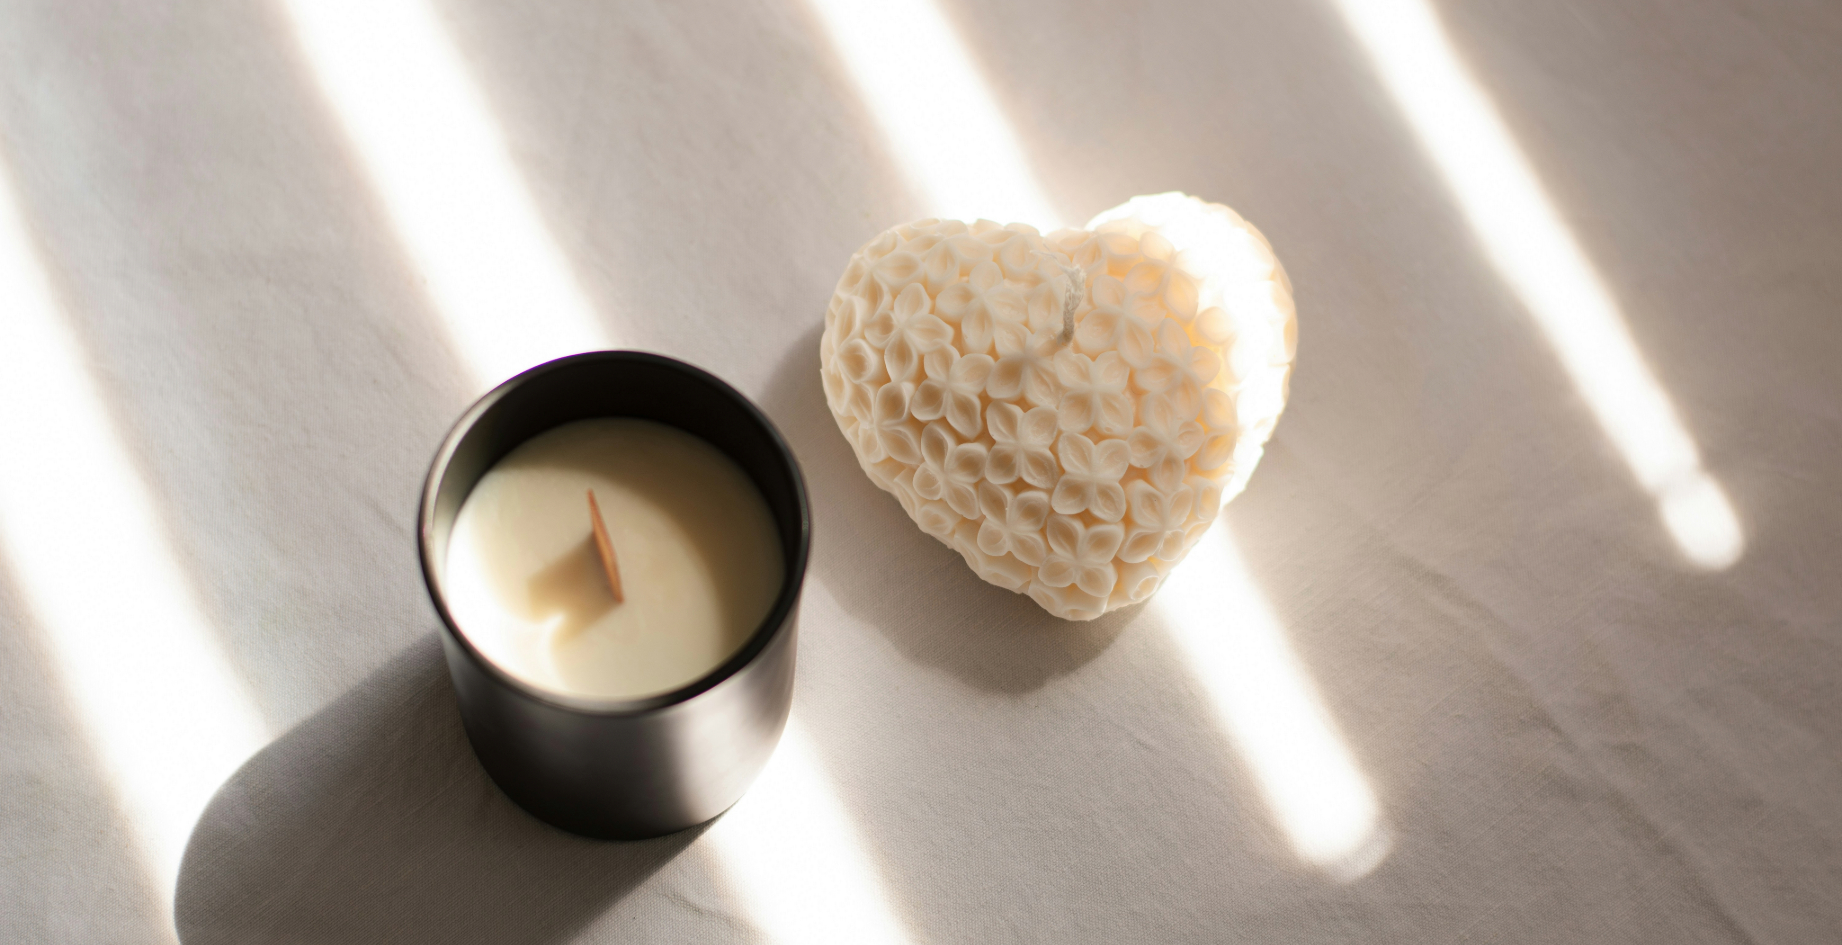
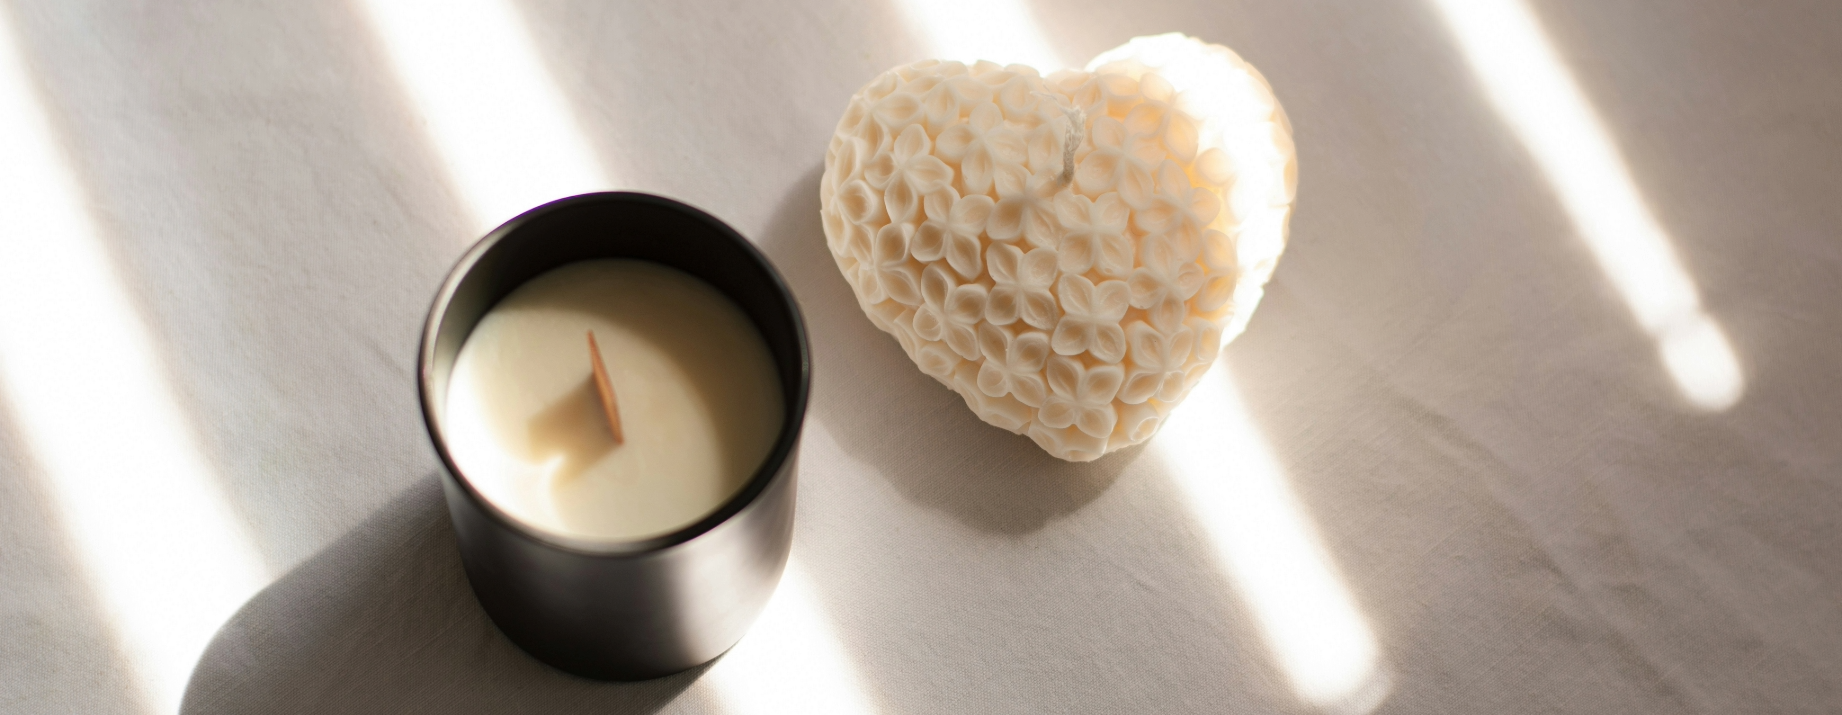
fix: 修改大圖樣式

diff --git a/index.html b/index.html
@@ -319,27 +319,29 @@
       </div>
       <div class="carousel-inner">
         <div class="carousel-item active">
-          <img class="w-100" src="./img/banner01.jpg" class="d-block w-100" alt="..." style="max-height: 80vh;">
+          <img class="w-100" src="./img/banner01.jpg" class="d-block w-100" alt="用香氣定義你的日常片刻" style="max-height: 70vh;">
           <div class="text-start carousel-caption d-none d-md-block">
-            <h2 class="display-3 fw-bold text-white">Slow down, breathe, illuminate.</h2>
-            <p>用香氣定義你的日常片刻</p>
-            <button type="button" class="btn btn-outline-light btn-lg">選購人氣款式</button>
+            <h2 class="display-1 fw-medium text-white">Slow down, breathe, illuminate.</h2>
+            <p class="text-white">為日常留一盞只屬於你的光</p>
+            <button type="button" class="btn btn-outline-light bg-btn-hover btn-lg">選購人氣香氛</button>
           </div>
         </div>
         <div class="carousel-item">
-          <img class="w-100" src="./img/banner02.jpg" class="d-block w-100" alt="..." style="max-height: 80vh;">
+          <img class="w-100" src="./img/banner02.jpg" class="d-block w-100" alt="..." style="max-height: 70vh;">
           <div class="text-center carousel-caption d-none d-md-block">
-            <h2 class="display-1 fw-bold text-white">Second slide label</h2>
-            <p>Some representative placeholder content for the second slide.</p>
-            <button type="button" class="btn btn-outline-light btn-lg">Large button</button>
+            <h2 class="display-1 fw-medium text-white">A scent for every quiet moment.</h2>
+            <p>早晨的陽光、午後的獨處、夜晚的放鬆 ☽☁
+              讓香氣，陪你走過每一段節奏。</p>
+            <button type="button" class="btn btn-outline-light bg-btn-hover btn-lg">探索香氣系列</button>
           </div>
         </div>
         <div class="carousel-item">
-          <img class="w-100" src="./img/banner03.jpg" class="d-block w-100" alt="..." style="max-height: 80vh;">
+          <img class="w-100" src="./img/banner03.jpg" class="d-block w-100" alt="..." style="max-height: 70vh;">
           <div class="text-end carousel-caption d-none d-md-block">
-            <h2 class="display-1 fw-bold text-white">Third slide label</h2>
-            <p>Some representative placeholder content for the third slide.</p>
-            <button type="button" class="btn btn-outline-light btn-lg">Large button</button>
+            <h2 class="display-1 fw-medium text-white">Let the night slow you down.</h2>
+            <p>當世界靜下來，
+              讓香氣接住你。</p>
+            <button type="button" class="btn btn-outline-light bg-btn-hover btn-lg">為今晚選一款香</button>
           </div>
         </div>
       </div>
